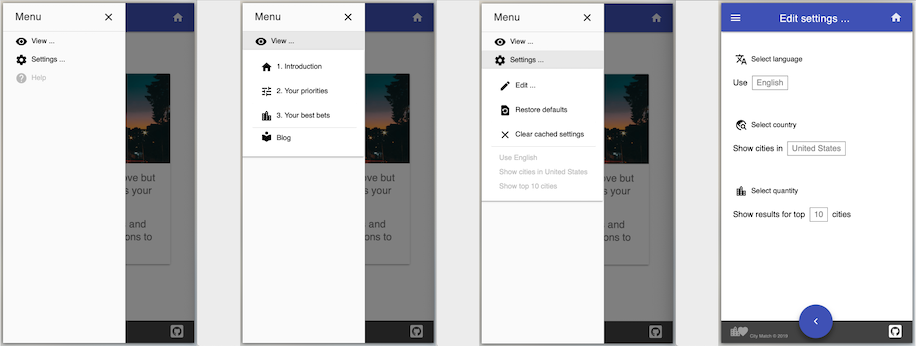
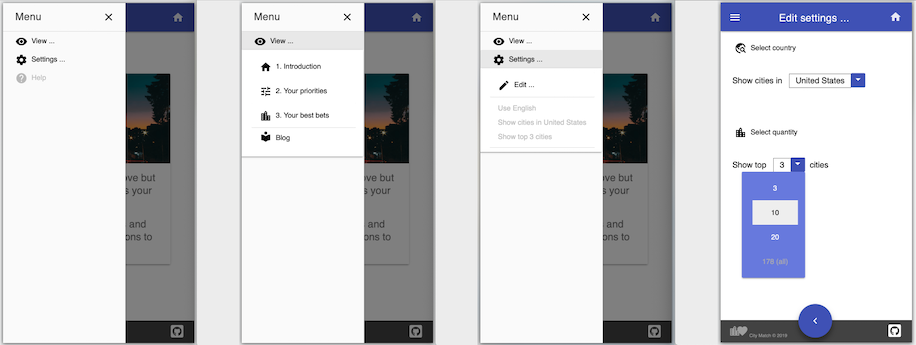
docs: evangelize working settings page

diff --git a/README.md b/README.md
@@ -891,8 +891,10 @@ What started out as a modest, hardcoded mock-up ...
 
 ![alt](docs/img/slideout-menu.png)
 
-has morphed into something which allows menu-based navigation (through the 'View' submenu) and the promise of mutating application settings.  
+has morphed into something which allows menu-based navigation (through the 'View' submenu) and mutating of application settings (at least for number of top cities to report).
 
 ![alt](docs/img/menu-refactor.png)
 
-I don't feel like horse-whispering Material Design Lite (MDL) into new features (like a fully functional settings page) since MDL is no longer getting updates.  The next big jump would probably be a full-stack implementation with React frontend.  Maybe I'll do that in the fullness of time.  Stay tuned and thanks for reading. (-;
+I had to create my own drop-down selection element since Material Design Lite (MDL) doesn't provide one, yet another reason to upgrade to Material Components.  I may noodle around with this at the margins, but the next big lift would probably a full-stack implementation with React front-end.
+
+Maybe I'll do that in the fullness of time.  Stay tuned and thanks for reading. (-;
